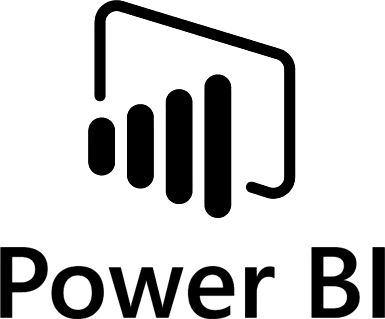
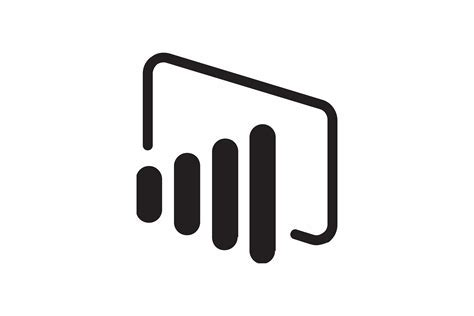
Change Project Order
Change the order of the projects and change the Power Bi icon

Changed region(s): [[0.0, 0.0, 0.7792, 1.0], [0.8104, 0.769, 0.9351, 0.9968], [0.9662, 0.769, 1.0, 0.9968]]

diff --git a/index.html b/index.html
@@ -198,6 +198,48 @@
         <p class="section__text__p1">Check out Examples of My</p>
         <h1 class="title">Work and Projects</h1>
         <div class="experience-details-container projects-container">
+            <div class="details-container api-container">
+                <h2 class="projects-sub-title">Joke Generator</h2>
+                <h3>Background</h3>
+                <div class="text-container project-api-text">
+                    <p>This a joke generator I created that will pull a random joke using an API. Check it out for a laugh!
+                    </p>
+                </div>
+                <h3>Skills Demonstrated</h3>
+                <div class="article-container skills-used">
+                    <article class="skills-details">
+                        <img src="./assets/web-development-icon.png" 
+                                 alt="Skills Icon"
+                                 class="icon">
+                                <div>
+                                    <p>Web Development</p>
+                                </div> 
+                    </article>
+                    <article class="skills-details">
+                        <img src="./assets/API-icon.png" 
+                                 alt="Skills Icon"
+                                 class="icon">
+                                <div>
+                                    <p>API Integration</p>
+                                </div> 
+                    </article>
+                    <article class="skills-details">
+                        <img src="./assets/coding-icon.png" 
+                                 alt="Skills Icon"
+                                 class="icon">
+                                <div>
+                                    <p>HTML, CSS, JavaScript</p>
+                                </div> 
+                    </article>
+                    </div>
+                <div class="article-container joke-container">                   
+                    <div class="joke-text-container">
+                        <p id="setup">Click the button below to start laughing!</p>
+                        <p id="delivery" class="hidden">Delivery Text</p>
+                    </div>
+                    <button id="joke-btn" onclick="runFunction()">Click here for a joke</button>
+                </div>
+            </div>
             <div class="details-container presentation-container">
                 <h2 class="projects-sub-title">Quality Assurance & Process Improvement</h2>
                 <h3>Background</h3>
@@ -309,40 +351,7 @@
                     <iframe title="Call Statistics Demo" width="600" height="486" src="https://app.powerbi.com/view?r=eyJrIjoiNjZkYTY4NjYtNTcwOC00YjhkLTlhNmItY2ViM2QxNGQ1OWJhIiwidCI6IjY2ZTRmZDdmLWQ2MDYtNDExNC04ZTYzLTRjZDkyZjU1OGFmZCJ9" frameborder="0" allowFullScreen="true"></iframe>
                 </div>
             </div>
-            <div class="details-container api-container">
-                <h2 class="projects-sub-title">Joke Generator</h2>
-                <h3>Background</h3>
-                <div class="text-container project-api-text">
-                    <p>This a joke generator I created that will pull a random joke using an API. Check it out for a laugh!
-                    </p>
-                </div>
-                <h3>Skills Demonstrated</h3>
-                <div class="article-container skills-used">
-                    <article class="skills-details">
-                        <img src="./assets/API-icon.png" 
-                                 alt="Skills Icon"
-                                 class="icon">
-                                <div>
-                                    <p>Fetch API</p>
-                                </div> 
-                    </article>
-                    <article class="skills-details">
-                        <img src="./assets/coding-icon.png" 
-                                 alt="Skills Icon"
-                                 class="icon">
-                                <div>
-                                    <p>HTML, CSS, JavaScript</p>
-                                </div> 
-                    </article>
-                    </div>
-                <div class="article-container joke-container">                   
-                    <div class="joke-text-container">
-                        <p id="setup">Click the button below to start laughing!.</p>
-                        <p id="delivery" class="hidden">Delivery Text</p>
-                    </div>
-                    <button id="joke-btn" onclick="runFunction()">Click here for a joke</button>
-                </div>
-            </div>
+            
         </div>
         <img src="./assets/arrow.png" alt="Arrow icon" class="icon arrow"
         onclick="location.href='./#contact'">
